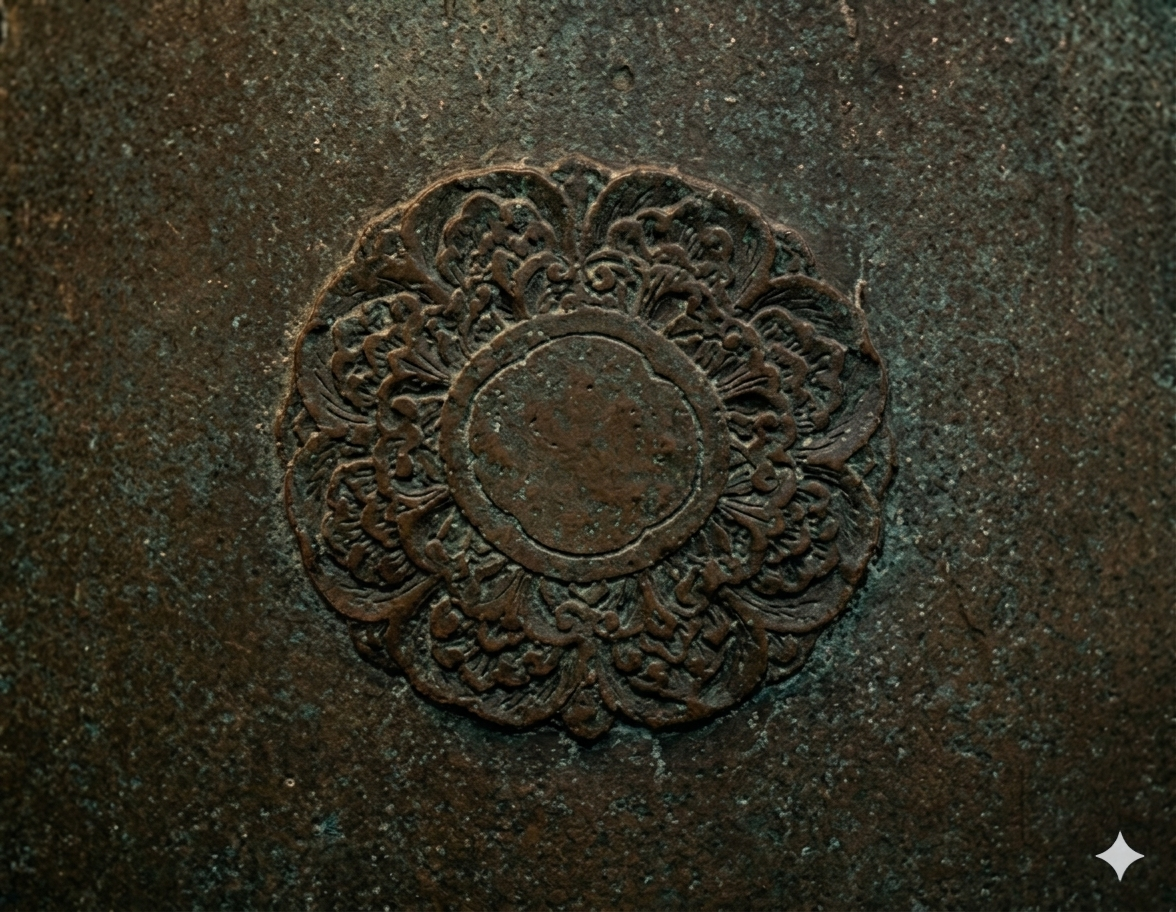
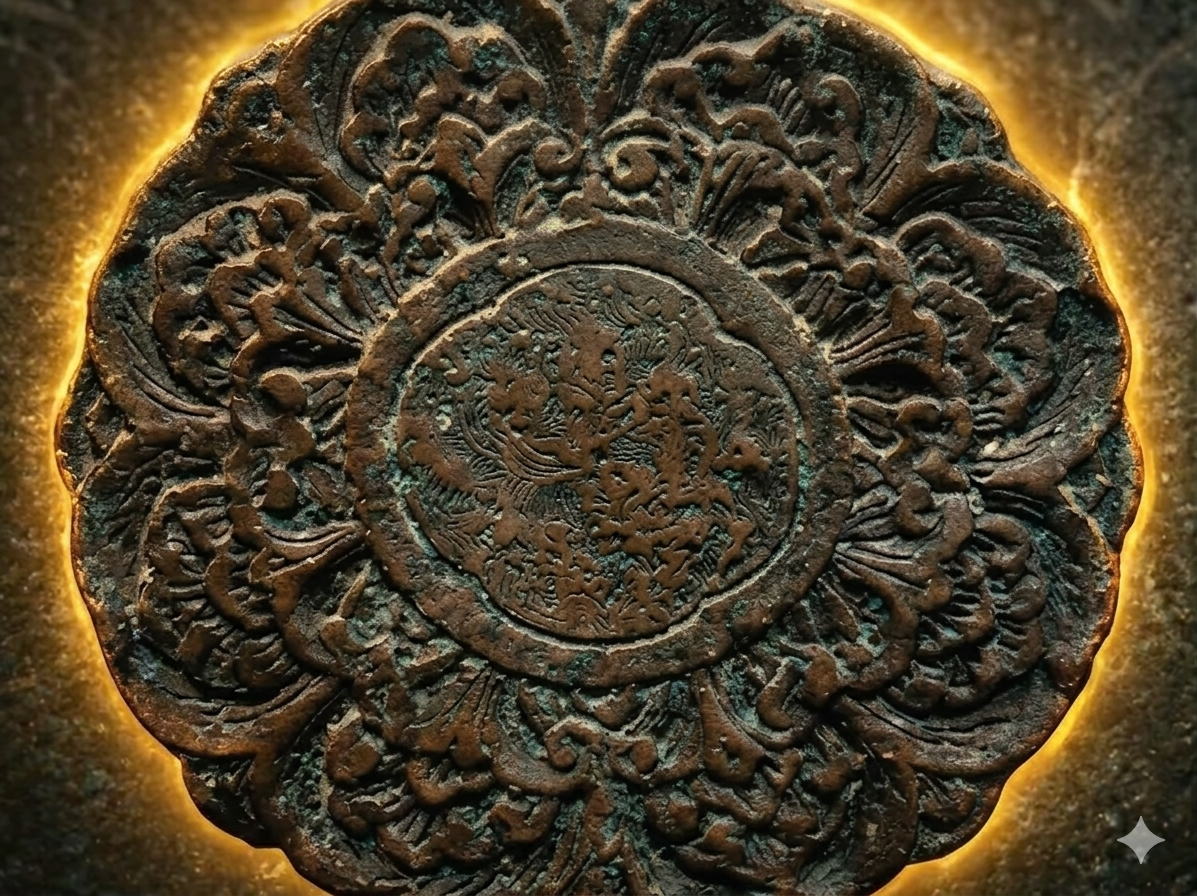
Add files via upload

diff --git a/index.html b/index.html
@@ -20,6 +20,28 @@
         .full-bell-img { width: 100%; height: auto; display: block; transition: all 0.5s; filter: grayscale(0.5); }
         .full-bell-img.active { filter: grayscale(0) brightness(1.1); }
         
+        /* 추가: 성덕대왕신종 설명 버튼 스타일 */
+        .info-button-container {
+            margin-top: 20px;
+            text-align: center;
+        }
+        .info-btn {
+            background: transparent;
+            color: var(--gold);
+            border: 2px solid var(--gold);
+            padding: 12px 24px;
+            font-size: 1.1rem;
+            font-weight: bold;
+            border-radius: 8px;
+            cursor: pointer;
+            transition: all 0.3s ease;
+            outline: none;
+        }
+        .info-btn:hover, .info-btn:focus {
+            background: rgba(212, 175, 55, 0.2);
+            box-shadow: 0 0 15px var(--gold);
+        }
+
         /* 자막 스타일 */
         #subtitle-overlay {
             position: fixed; bottom: 80px; left: 50%; transform: translateX(-50%);
@@ -41,13 +63,17 @@
         .yeonroe-left { left: 32%; margin-left: -5%; }
         .yeonroe-right { left: 68%; margin-left: -5%; }
 
-        #image-overlay {
+        #image-overlay, #bell-info-overlay {
             position: fixed; top: 0; left: 0; width: 100%; height: 100%;
             background: rgba(0,0,0,0.9); z-index: 200; display: none; 
             flex-direction: column; justify-content: center; align-items: center;
             user-select: none; -webkit-user-select: none;
         }
         .popup-content { max-width: 80%; text-align: center; pointer-events: none; }
+        /* 추가: 텍스트 팝업용 스크롤 및 정렬 스타일 */
+        .popup-text-content { max-width: 85%; max-height: 70vh; overflow-y: auto; text-align: left; background: rgba(20, 20, 25, 0.95); padding: 30px; border-radius: 15px; border: 1px solid var(--gold); pointer-events: auto; }
+        .popup-text-content p { color: #f0f0f0; line-height: 1.8; font-size: 1.15rem; margin-bottom: 15px; word-break: keep-all; }
+        
         .popup-img { max-width: 90%; max-height: 50vh; object-fit: contain; border: 2px solid var(--gold); border-radius: 10px; margin-top: 10px; margin-bottom: 10px; }
 
         .progress-bar { display: flex; gap: 10px; margin: 20px 0; }
@@ -119,6 +145,10 @@
         <div id="ripple-container"></div>
     </div>
 
+    <div class="info-button-container">
+        <button class="info-btn" id="bell-info-btn" onclick="openBellInfo(event)" onkeydown="handleBellInfoKey(event)">성덕대왕신종 정보 보기</button>
+    </div>
+
     <div class="progress-bar">
         <div id="dot-dangjwa" class="dot"></div>
         <div id="dot-bicheon" class="dot"></div>
@@ -166,6 +196,24 @@
         </div>
     </div>
 
+    <div id="bell-info-overlay" role="dialog" aria-modal="true">
+        <span class="close-btn" 
+              onclick="closeBellInfo()" 
+              onmouseenter="speakText('전체화면으로 돌아가기')" 
+              onfocus="speakText('전체화면으로 돌아가기')"
+              onkeydown="handleCloseKey(event, 'bell-info')"
+              role="button" 
+              tabindex="0" 
+              aria-label="닫기 및 전체화면으로 돌아가기">&times;</span>
+        <div class="popup-text-content">
+            <h2 style="color: var(--gold); margin-top: 0; border-bottom: 2px solid var(--gold); padding-bottom: 10px;">성덕대왕신종 (聖德大王神鍾)</h2>
+            <p>우리나라 통일신라시대 범종이다. 높이 3.66m, 입지름 2.27m, 두께 11∼25㎝이며, 무게는 18.9톤이다.</p>
+            <p>신라 혜공왕 771년에 완성하였다. 쇳물과 함께 아기를 시주하여 만들었는데 맑은 종소리에는 "에밀레" 하는 아기의 울음소리가 섞여 나왔다는 설화로 인해 에밀레종이라고도 불리운다.</p>
+            <p>종의 맨 위에는 소리의 울림을 도와주는 음통(音筒)이 있는데, 이것은 우리나라 동종에서만 찾아볼 수 있는 독특한 구조이다. 종을 매다는 고리 역할을 하는 용뉴는 용머리 모양으로 조각되어 있다. 종 몸체에는 상하에 넓은 띠를 둘러 그 안에 꽃무늬를 새겨 넣었고, 종의 어깨 밑으로는 4곳에 연꽃 모양으로 돌출된 9개의 연꽃봉우리를 사각형의 연곽(蓮廓)이 둘러싸고 있다. 유곽 아래로 2쌍의 비천상이 있고, 그 사이에는 종을 치는 부분인 당좌가 연꽃 모양으로 마련되어 있다.</p>
+            <p style="color: var(--gold); text-align: center; font-weight: bold; margin-top: 25px; font-size: 1rem;">[ 화면을 길게 누르거나 우측 상단 X 버튼을 누르면 전체화면으로 돌아갑니다 ]</p>
+        </div>
+    </div>
+
     <div id="video-overlay" role="dialog" aria-modal="true">
         <span class="close-btn" 
               onclick="closeVideo()" 
@@ -178,7 +226,8 @@
         <div id="video-player-container"></div>
     </div>
 
-    <audio id="audio-dangjwa" src="bell_sound.mp3"></audio>
+    <audio id="audio-dangjwa" src="bell_sound.mp3" loop></audio>
+    
     <audio id="audio-bicheon" src="bicheon_sound.mp3"></audio>
     <audio id="audio-yeonroe" src="yeonroe_sound.mp3"></audio>
     <audio id="audio-yongnyu" src="bell_sound.mp3"></audio>
@@ -201,8 +250,26 @@
         let isLongPress = false;
         const LONG_PRESS_DURATION = 800;
 
+        const AudioContext = window.AudioContext || window.webkitAudioContext;
+        let audioCtx = null;
+        const targetAudioIds = ['audio-dangjwa', 'audio-yongnyu'];
+
+        function initAudioAmplifier() {
+            if (audioCtx) return;
+            audioCtx = new AudioContext();
+            targetAudioIds.forEach(id => {
+                const audioElement = document.getElementById(id);
+                if (!audioElement) return;
+                const source = audioCtx.createMediaElementSource(audioElement);
+                const gainNode = audioCtx.createGain();
+                gainNode.gain.value = 3.0; 
+                source.connect(gainNode);
+                gainNode.connect(audioCtx.destination);
+            });
+        }
+
         document.body.addEventListener('click', function(e) {
-            if (e.target.classList.contains('touch-zone')) {
+            if (e.target.classList.contains('touch-zone') || e.target.id === 'bell-info-btn') {
                 initialGuidePlayed = true; 
                 return;
             }
@@ -214,7 +281,7 @@
             window.speechSynthesis.cancel();
             narratorPlayer.pause();
             narratorPlayer.currentTime = 0;
-            document.querySelectorAll('audio:not(#narrator-player)').forEach(audio => {
+            document.querySelectorAll('audio:not(#narrator-player):not(#audio-dangjwa)').forEach(audio => {
                 audio.pause();
                 audio.currentTime = 0;
             });
@@ -223,12 +290,10 @@
         function playNarratorAudio(fileUrl, fallbackText) {
             stopAllAudio();
             showSubtitle(fallbackText);
-
             narratorPlayer.src = fileUrl;
             narratorPlayer.play().catch(err => {
                 speakText(fallbackText);
             });
-
             narratorPlayer.onended = function() {
                 subtitleEl.style.display = 'none';
             };
@@ -238,20 +303,20 @@
             window.speechSynthesis.cancel(); 
             const utterance = new SpeechSynthesisUtterance(text);
             const voices = window.speechSynthesis.getVoices();
-
             showSubtitle(text);
 
-            const preferredVoice = voices.find(v => v.lang.includes('ko') && v.name.includes('Natural')) ||
-                                   voices.find(v => v.lang.includes('ko') && v.name.includes('Minjun')) || 
-                                   voices.find(v => v.lang.includes('ko') && v.name.includes('Google')) ||
-                                   voices.find(v => v.lang.includes('ko'));
+            const preferredVoice = voices.find(v => v.lang.includes('ko') && v.name.includes('Natural')) || 
+                                   voices.find(v => v.lang.includes('ko') && v.name.includes('Neural')) ||  
+                                   voices.find(v => v.lang.includes('ko') && v.name.includes('Yunjin')) ||  
+                                   voices.find(v => v.lang.includes('ko') && v.name.includes('Minjun')) ||  
+                                   voices.find(v => v.lang.includes('ko') && v.name.includes('Google')) ||  
+                                   voices.find(v => v.lang.includes('ko'));                                  
 
             if (preferredVoice) utterance.voice = preferredVoice;
             utterance.lang = 'ko-KR';
-
-            utterance.rate = 0.85;   
-            utterance.pitch = 0.85;  
-            utterance.volume = 1.0;
+            utterance.rate = 0.95;   
+            utterance.pitch = 1.0;   
+            utterance.volume = 1.0;  
 
             utterance.onend = function() {
                 subtitleEl.style.display = 'none';
@@ -263,6 +328,40 @@
             subtitleEl.innerText = text;
             subtitleEl.style.display = 'block';
             subtitleEl.style.opacity = 1;
+        }
+
+        /* 추가: 성덕대왕신종 정보창 제어 함수 */
+        function openBellInfo(event) {
+            if (event) event.stopPropagation();
+            stopAllAudio();
+            subtitleEl.style.display = 'none';
+            isEnteringPopup = true;
+
+            document.getElementById('bell-info-overlay').style.display = 'flex';
+            
+            // 정보창 요약 내용을 음성으로 안내
+            const summaryText = "성덕대왕신종 설명입니다. 우리나라에 남아있는 가장 큰 종으로 통일신라 범종의 정수입니다. 혜공왕 칠칠일년에 완공되었으며 에밀레종으로도 불립니다. 음통과 용뉴, 비천상과 당좌의 조화가 아름다운 국보입니다. 상세 내용은 화면의 텍스트를 참조바랍니다.";
+            speakText(summaryText);
+
+            setTimeout(() => { 
+                document.querySelector('#bell-info-overlay .close-btn').focus(); 
+                isEnteringPopup = false; 
+            }, 100);
+        }
+
+        function closeBellInfo() {
+            stopAllAudio();
+            document.getElementById('bell-info-overlay').style.display = 'none';
+            subtitleEl.style.display = 'none';
+            speakText('전체화면입니다');
+            document.getElementById('bell-info-btn').focus();
+        }
+
+        function handleBellInfoKey(event) {
+            if (event.key === 'Enter' || event.key === ' ') {
+                event.preventDefault();
+                openBellInfo(event);
+            }
         }
 
         const popupData = {
@@ -306,8 +405,8 @@
                 audioShort: 'yongnyu_short.mp3',
                 audioLong: 'yongnyu_long.mp3',
                 desc: '용뉴입니다. 왕의 권위와 신성함을 상징하며 종소리를 멀리 퍼지게 하는 지혜가 담겨 있습니다.', 
-                adShort: '종 맨 꼭대기의 용뉴는 황금 용이 네 발로 종의 어깨를 힘차게 움켜쥔 형상입니다. 입체적인 비늘은 금방이라도 포효할 듯 생생한 질감을 전하며, 그 뒤로 솟은 대나무 모양 음관은 소리를 땅으로 전달하는 지혜의 통로 역할을 합니다.',
-                adLong: '종의 정상부, 용뉴는 권위와 신성함이 응집된 공간입니다. C자형으로 굽은 역동적인 용의 몸체와 근육질의 앞발이 종을 견고하게 지탱하며, 등 뒤에 수직으로 솟은 대나무 마디 모양 음관은 정교한 대칭 문양으로 지혜의 깊이를 더합니다.',
+                adShort: '종 맨 꼭대기의 용뉴는 용이 네 발을 힘차게 뻗어 종 윗면을 딛고 있으며,역동적인 모습을 하고 있습니다. 그 뒤로 솟은 대나무 모양 음관은 소리를 땅으로 전달하는 지혜의 통로 역할을 합니다.',
+                adLong: ' 용뉴는 단순히 종을 매달기 위한 기능적 고리에 그치지 않고, 하늘과 땅을 연결하고 부처님의 가르침을 널리 퍼뜨리는 신성한 영물로서의 종교적·예술적 가치를 완벽하게 구현하고 있습니다',
                 color: '#d4af37' 
             }
         };
@@ -329,7 +428,18 @@
             playNarratorAudio(data.audioDesc, data.desc);
 
             const audio = document.getElementById(`audio-${type}`);
-            if(audio) { audio.currentTime = 0; audio.play(); }
+            if(audio) { 
+                if (type === 'dangjwa') {
+                    if (audio.paused) {
+                        audio.currentTime = 0;
+                        audio.play();
+                    }
+                } else {
+                    audio.currentTime = 0; 
+                    audio.play(); 
+                }
+            }
+
             state[type] = true;
             document.getElementById(`dot-${type}`).classList.add('active');
             
@@ -359,18 +469,21 @@
                 event.preventDefault();
                 if (layer === 'popup') closePopup();
                 else if (layer === 'video') closeVideo();
+                else if (layer === 'bell-info') closeBellInfo();
             }
         }
 
+        // 롱 프레스 가이드라인 적용 인터페이스 타겟팅
         const overlayEl = document.getElementById('image-overlay');
+        const infoOverlayEl = document.getElementById('bell-info-overlay');
 
         function startPress(e) {
             if (e.target.classList.contains('close-btn')) return;
             isLongPress = false;
-
             pressTimer = setTimeout(() => {
                 isLongPress = true;
-                closePopup(); 
+                if(overlayEl.style.display === 'flex') closePopup();
+                if(infoOverlayEl.style.display === 'flex') closeBellInfo();
             }, LONG_PRESS_DURATION);
         }
 
@@ -382,24 +495,21 @@
             }
         }
 
-        overlayEl.addEventListener('touchstart', startPress, { passive: false });
-        overlayEl.addEventListener('touchend', endPress, { passive: false });
-        overlayEl.addEventListener('touchmove', () => { if (pressTimer) clearTimeout(pressTimer); });
-
-        overlayEl.addEventListener('mousedown', startPress);
-        overlayEl.addEventListener('mouseup', endPress);
-        overlayEl.addEventListener('mouseleave', () => { if (pressTimer) clearTimeout(pressTimer); });
+        [overlayEl, infoOverlayEl].forEach(el => {
+            el.addEventListener('touchstart', startPress, { passive: false });
+            el.addEventListener('touchend', endPress, { passive: false });
+            el.addEventListener('touchmove', () => { if (pressTimer) clearTimeout(pressTimer); });
+            el.addEventListener('mousedown', startPress);
+            el.addEventListener('mouseup', endPress);
+            el.addEventListener('mouseleave', () => { if (pressTimer) clearTimeout(pressTimer); });
+        });
 
         overlayEl.onclick = function(e) {
             if (e.target.classList.contains('close-btn') || !currentActiveType) return;
-            if (isLongPress) {
-                isLongPress = false;
-                return;
-            }
+            if (isLongPress) { isLongPress = false; return; }
 
             const data = popupData[currentActiveType];
             popupClickCount++;
-
             if (popupClickCount === 1) {
                 playNarratorAudio(data.audioShort, data.adShort);
             } else {
@@ -407,14 +517,11 @@
             }
         };
 
-        // [수정 핵심 부분] X 버튼 클릭이나 롱 프레스로 빠져나갔을 때 "전체화면입니다" 출력
         function closePopup() {
             stopAllAudio();
             document.getElementById('image-overlay').style.display = 'none'; 
             subtitleEl.style.display = 'none';
-
             speakText('전체화면입니다');
-
             if (currentActiveType) {
                 const zone = document.querySelector(`.${currentActiveType}-zone`);
                 if (zone) zone.focus();
@@ -442,6 +549,9 @@
 
         function showVideo() {
             stopAllAudio();
+            const dangjwaAudio = document.getElementById('audio-dangjwa');
+            if(dangjwaAudio) { dangjwaAudio.pause(); dangjwaAudio.currentTime = 0; }
+
             isEnteringPopup = true; 
             document.getElementById('video-overlay').style.display = 'flex';
             document.getElementById('video-player-container').innerHTML = `
@@ -458,7 +568,6 @@
             stopAllAudio();
             document.getElementById('video-overlay').style.display = 'none';
             document.getElementById('video-player-container').innerHTML = '';
-            
             speakText('전체화면입니다');
             resetExperience();
         }
